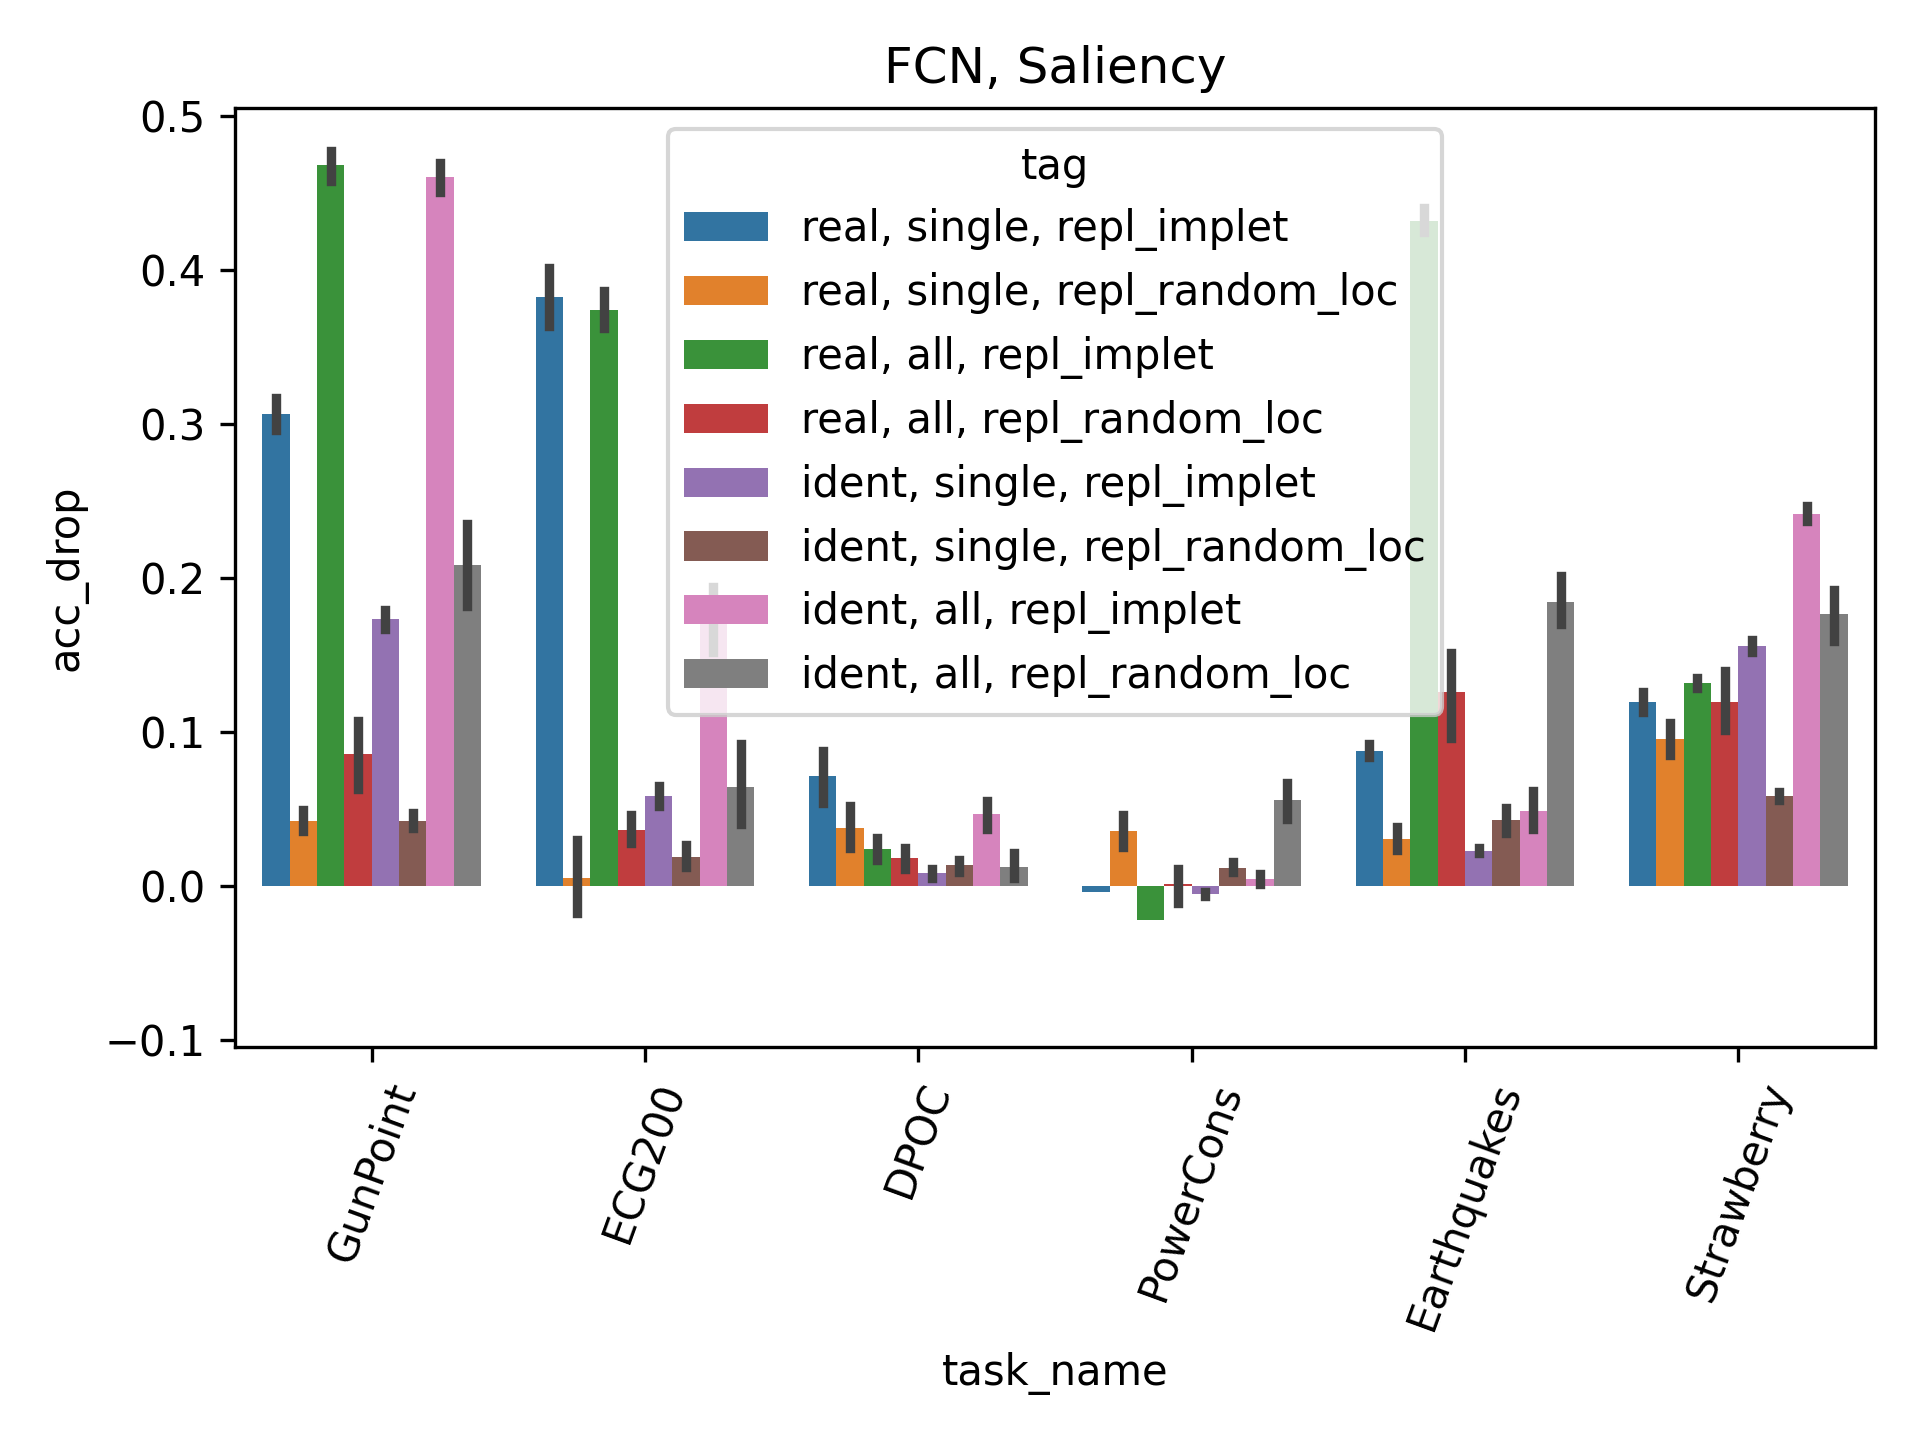
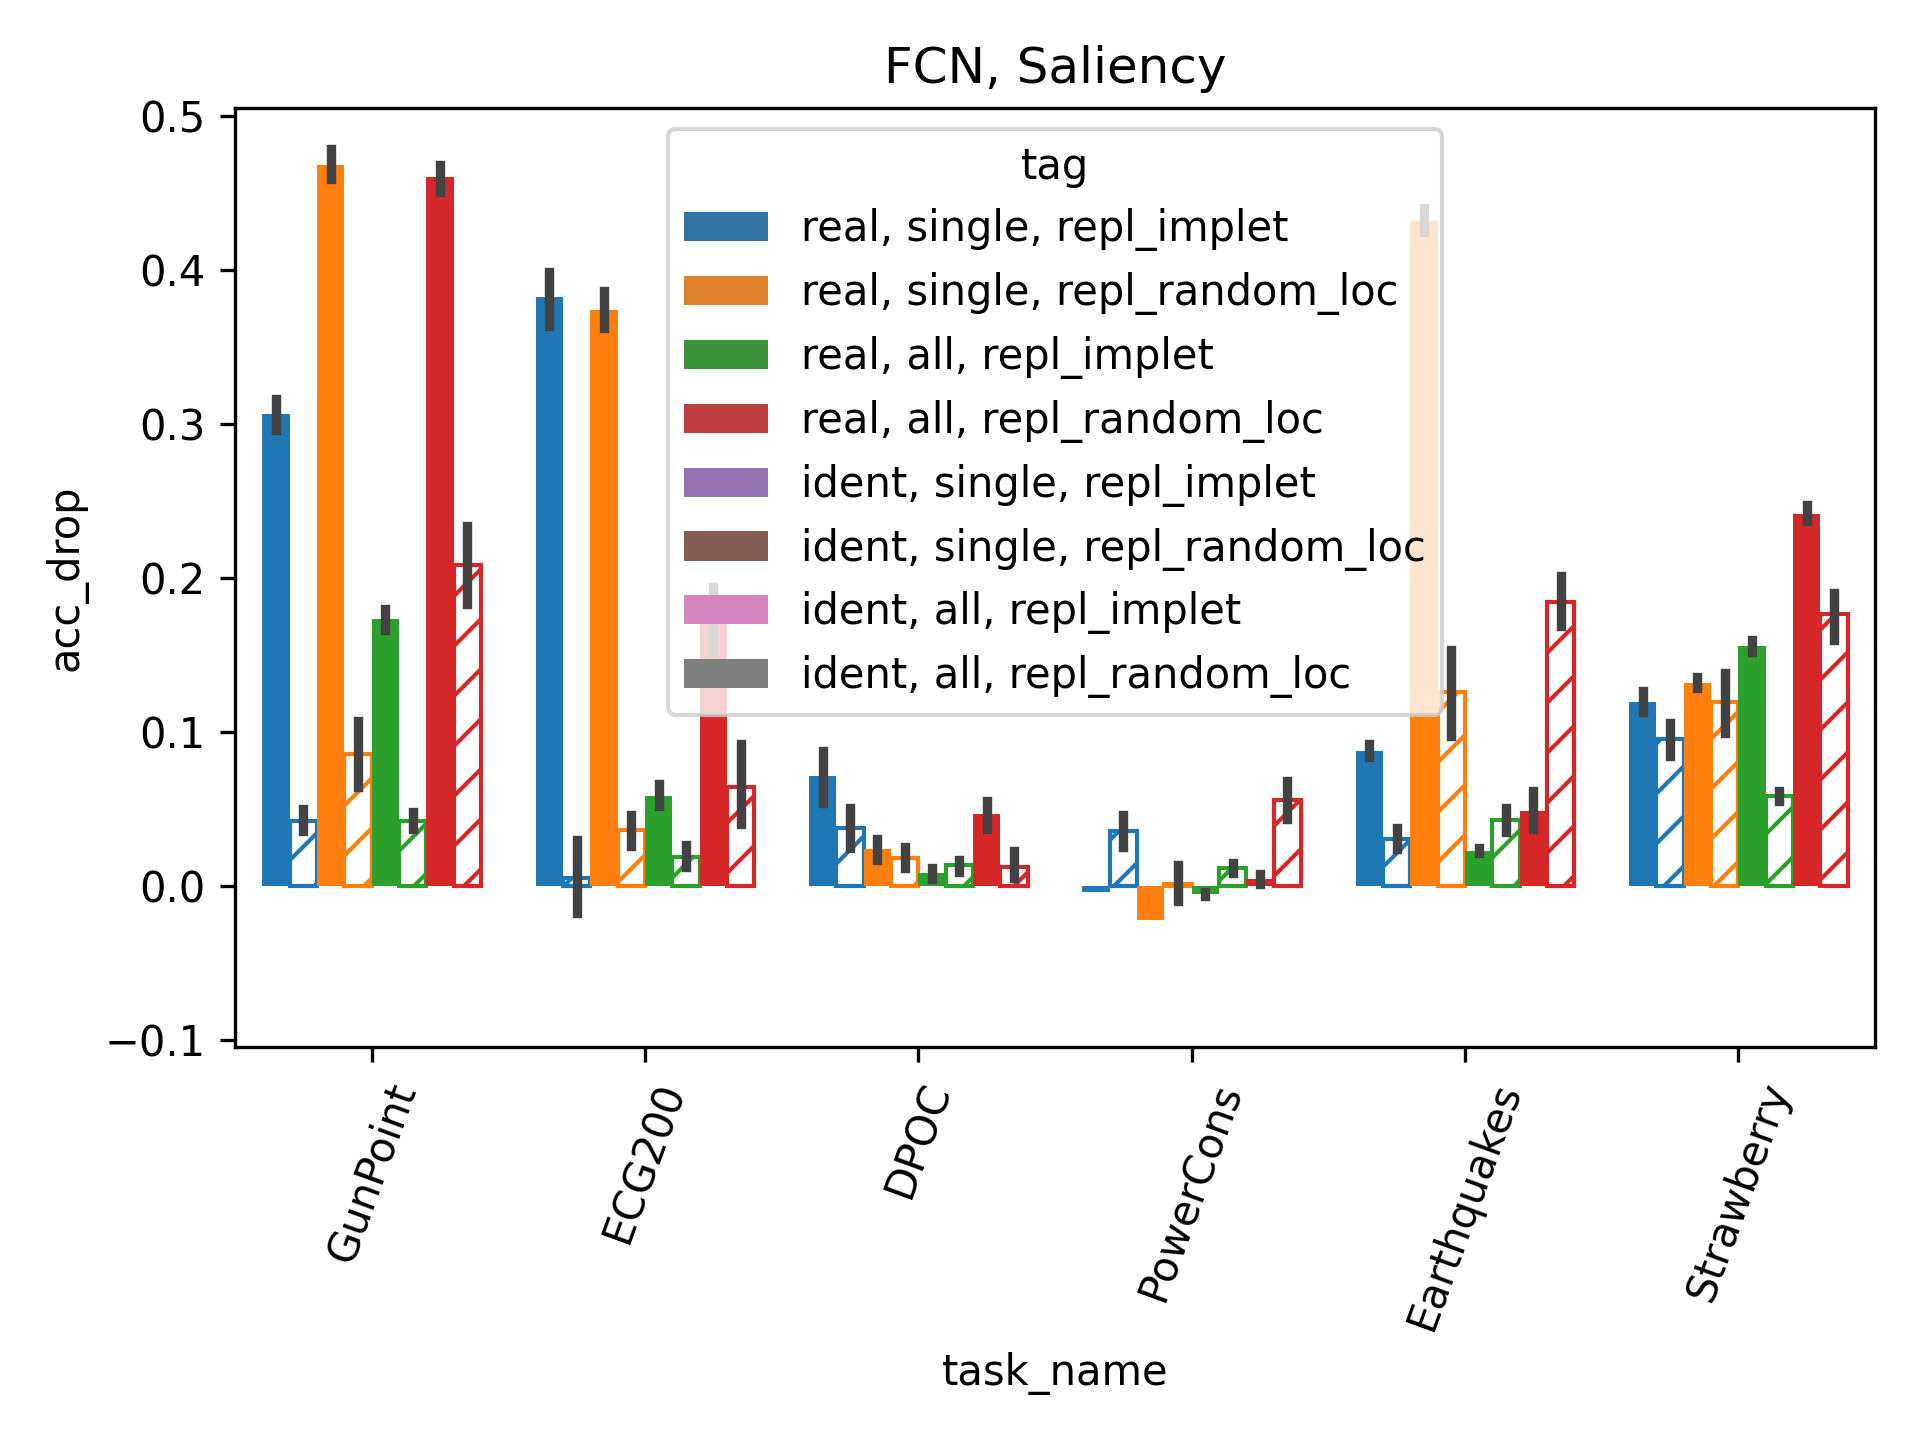
[minor] adapt visualization for half dataset

diff --git a/implet_half_dataset_visualize.py b/implet_half_dataset_visualize.py
@@ -21,11 +21,23 @@ plt.figure(dpi=300)
 
 for model_name in model_names:
     for xai_name in xai_names:
-        sns.barplot(df[(df['model_name'] == model_name) & (df['xai_name_x'] == xai_name)],
+        ax = sns.barplot(df[(df['model_name'] == model_name) & (df['xai_name_x'] == xai_name)],
                     x='task_name', y='acc_drop', hue='tag')
+
+        bars = ax.patches  # Get all bars
+        for i, bar in enumerate(bars):
+            if (i // 6) % 2 == 1:  # Apply to odd-numbered bars in each group
+                bar.set_edgecolor(plt.get_cmap('tab10')((i // 6) // 2))
+                bar.set_facecolor('none')
+                bar.set_hatch('//')
+            else:
+                bar.set_facecolor(plt.get_cmap('tab10')((i // 6) // 2))
+
         plt.ylim(-0.105, 0.505)
         plt.title(f'{model_name}, {xai_name}')
         plt.xticks(rotation=70)
         plt.tight_layout()
         plt.savefig(f'figure/half_dataset/{model_name}_{xai_name}.png')
         plt.clf()
+
+
